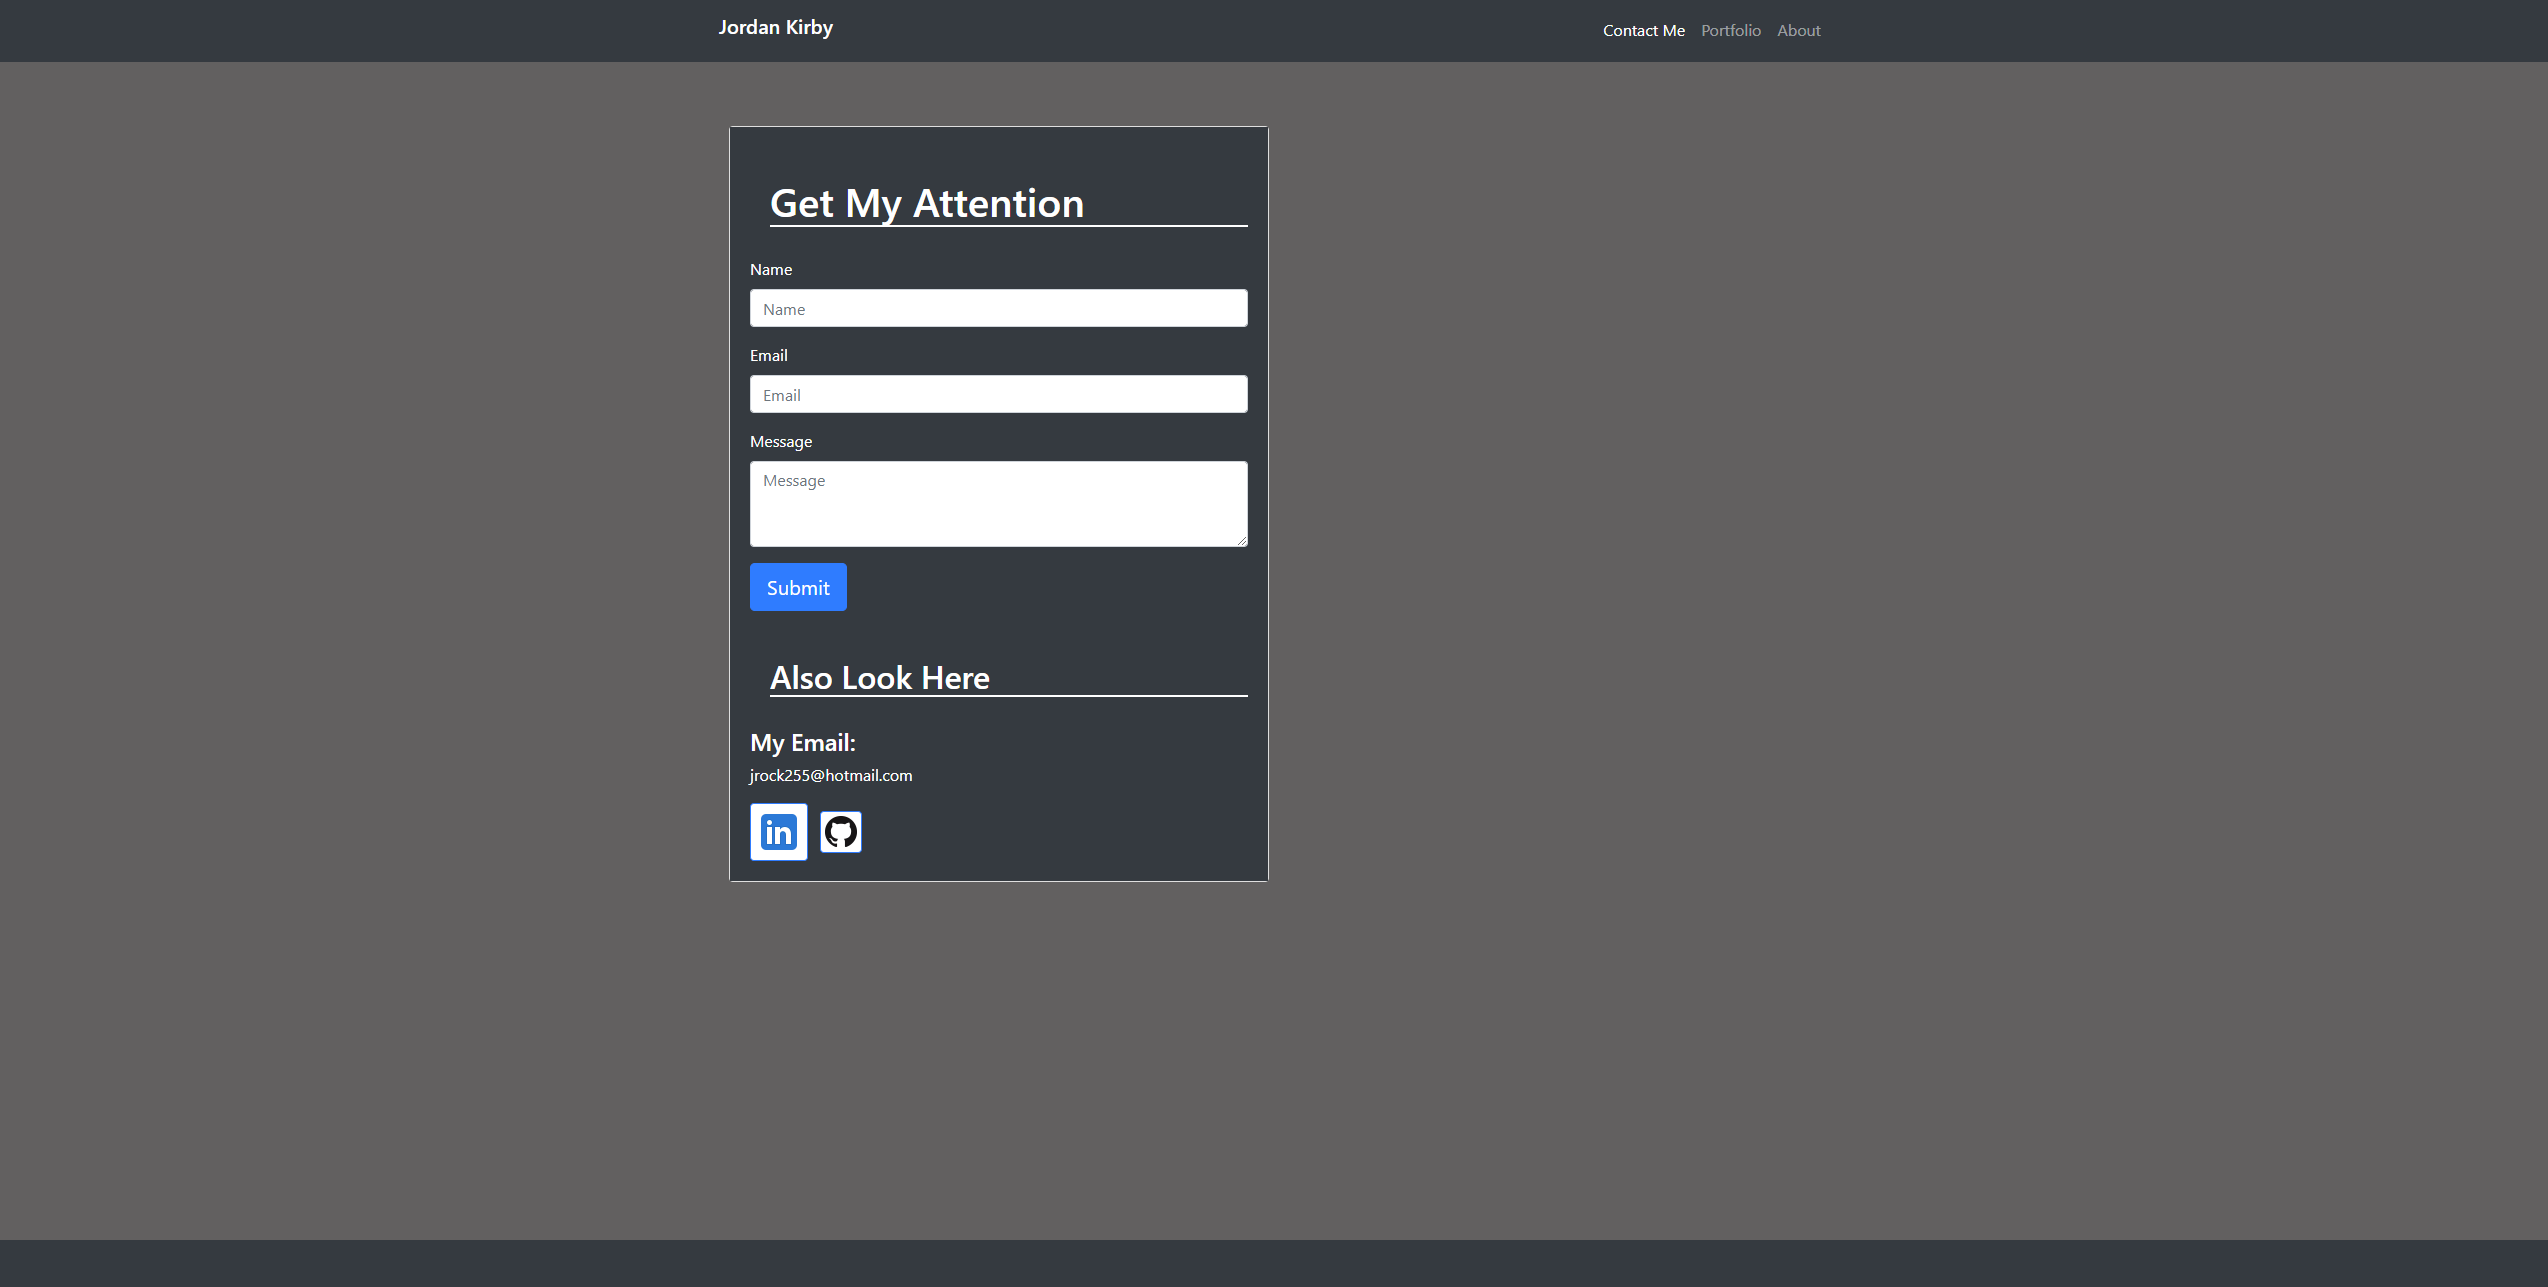
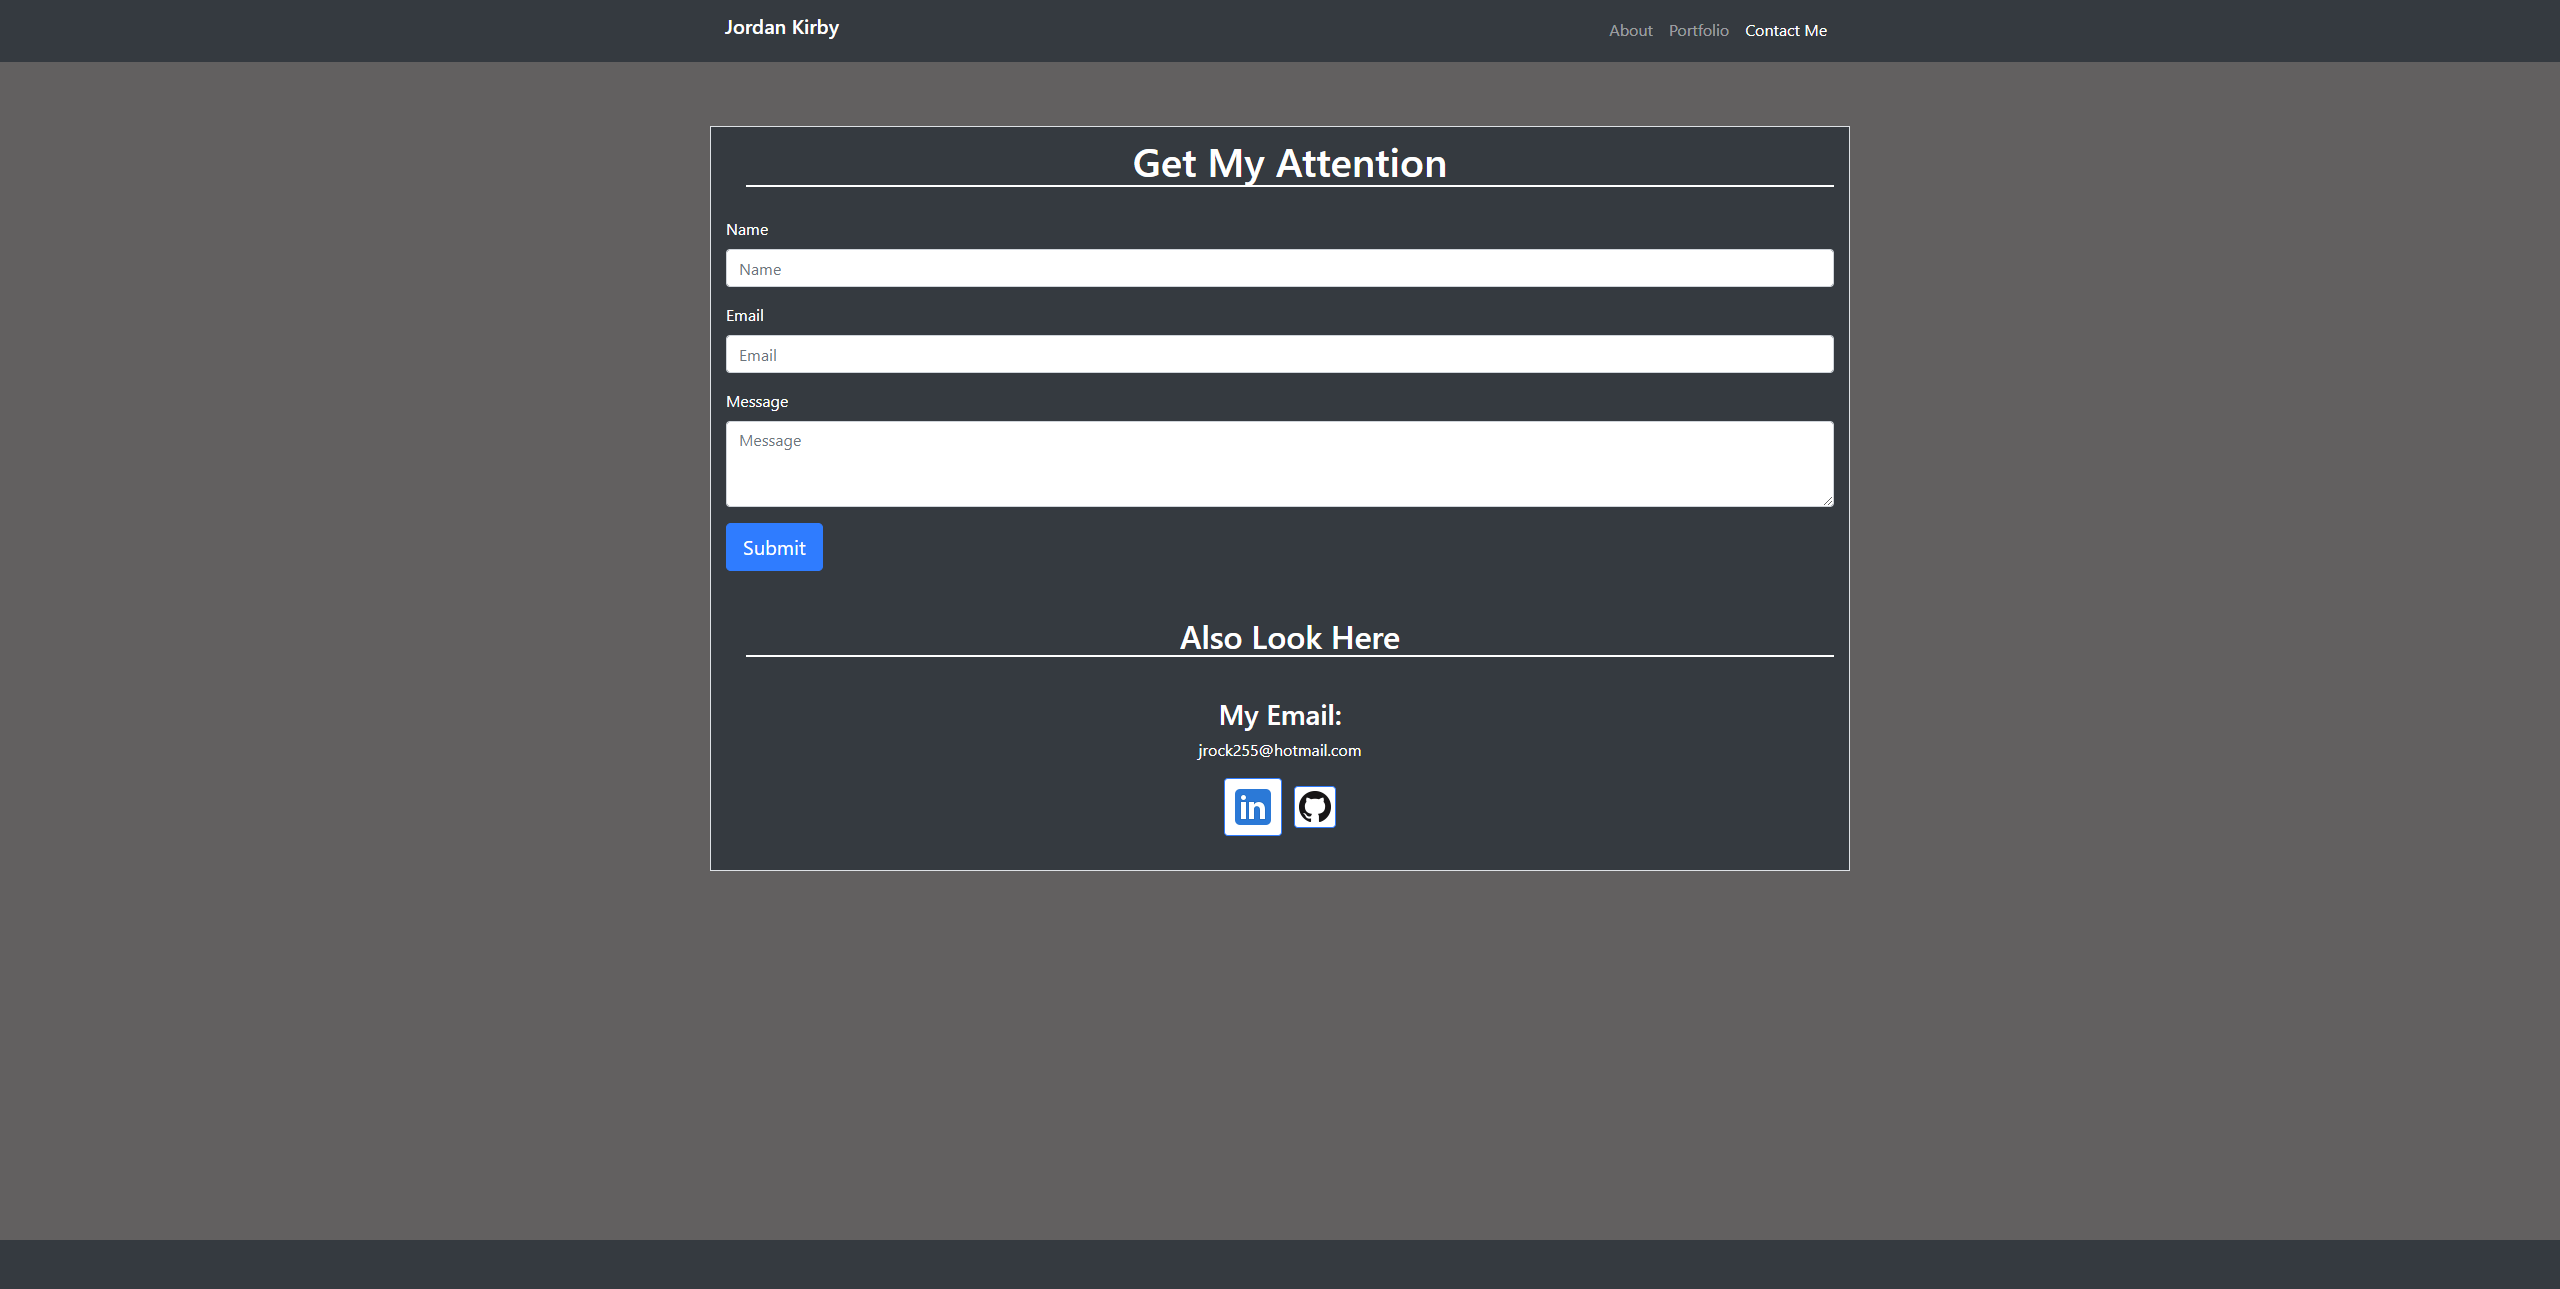
added skills to about me page changed some text alignment and centering

Changed region(s): [[0.279, 0.0932, 0.7441, 0.6838], [0.6201, 0.0, 0.7131, 0.0311], [0.279, 0.0, 0.3411, 0.0311]]

diff --git a/portfolio.html b/portfolio.html
@@ -106,6 +106,30 @@
                     </div>
                 </div>
 
+                <!-- Buger eat -->
+                <div class="card text-white bg-secondary  border-white mb-3">
+                    <img src="./Assets/Images/buger.png" class="card-img-top" alt="Code Quiz">
+                    <div class="card-body">
+                        <h3 class="card-title"><svg width="1em" height="1em" viewBox="0 0 16 16" class="bi bi-star-fill"
+                                fill="currentColor" xmlns="http://www.w3.org/2000/svg">
+                                <path
+                                    d="M3.612 15.443c-.386.198-.824-.149-.746-.592l.83-4.73L.173 6.765c-.329-.314-.158-.888.283-.95l4.898-.696L7.538.792c.197-.39.73-.39.927 0l2.184 4.327 4.898.696c.441.062.612.636.283.95l-3.523 3.356.83 4.73c.078.443-.36.79-.746.592L8 13.187l-4.389 2.256z" />
+                            </svg><a href="https://salty-lake-39666.herokuapp.com/burgers" class="link text-primary ml-3"
+                                target="blank"><u>Eat Burger</u></a></h3>
+                        <p class="card-text">Eat-Da-Burger! is a restaurant app that lets users input the names of burgers they'd like to eat.
+                        
+                        Whenever a user submits a burger's name, your app will display the burger on the left side of the page -- waiting to be
+                        devoured.
+                        
+                        Each burger in the waiting area also has a Devour it! button. When the user clicks it, the burger will move to the right
+                        side of the page.</p>
+                        <a href="https://github.com/Feizhi255/burger-eat" target="blank"
+                            class="btn btn-lg btn-primary">GitHub</a>
+                    </div>
+                </div>
+            </div>
+
+            <div class="row">
                 <!-- password generator -->
                 <div class="card text-white bg-secondary  border-white mb-3">
                     <img src=" ./Assets/Images/PasswordGenerator.png" class="card-img-top" alt="password generator">
@@ -117,23 +141,6 @@
                             password. The choices are special characters, number value, a lowercase letter and a
                             uppercase letter. The length of the password must be between 8 - 128 characters long.</p>
                         <a href="https://github.com/Feizhi255/password-generator" target="blank"
-                            class="btn btn-lg btn-primary">GitHub</a>
-                    </div>
-                </div>
-            </div>
-
-            <div class="row">
-                <!-- code quiz -->
-                <div class="card text-white bg-secondary  border-white mb-3">
-                    <img src="./Assets/Images/CodeQuiz.png" class="card-img-top" alt="Code Quiz">
-                    <div class="card-body">
-                        <h3 class="card-title"><a href="https://feizhi255.github.io/quiz-code/"
-                                class="link text-primary" target="blank"><u>Code Quiz</u></a></h3>
-                        <p class="card-text">Take a little quiz on HTML see how u can do. Max score out of a 4. Here are
-                            the question in the application: Hyper Text Markup Language Stand For? Which language is
-                            used for styling web pages? Which is not a JavaScript Framework? Which is used for Connect
-                            To Database?</p>
-                        <a href="https://github.com/Feizhi255/quiz-code" target="blank"
                             class="btn btn-lg btn-primary">GitHub</a>
                     </div>
                 </div>

diff --git a/index.html b/index.html
@@ -46,10 +46,10 @@
                         <img class="img-thumbnail" src="./Assets/Images/Me2.jpg" alt="Jordan Kirby"
                             style="float: left; margin-right: 10px; margin-bottom: 10px;">
                         <h2 class="mb-0">Bio</h2>
-                        <p>My name is Jordan Kirby. I live in South Weber, Utah with my parents for the time being.
+                        <p>My name is Jordan Kirby. I live in South Weber, Utah.
                             I currently work for Farmington City in Utah maintaining their properties. I hope to one
                             day
-                            find a better career to live with for the rest of my life.
+                            find a Full Stack Web Development career to live with for the rest of my life.
                         <h2>Hobbies</h2>
                         <p>Favorite things include: playing
                             video games and hanging out with friends. Interests: astronomy, minor passion in video
@@ -57,24 +57,30 @@
                             learning new things, and sometimes book reading. Favorite book genre SciFi but mostly
                             fantasy.</p>
                         </p>
-                        <h2 class="text-center">Also Look Here</h2>
-                        <div class="center">
-                            <h3>My Email:</h3>
-                            <p>jrock255@hotmail.com</p>
-                            <a href="https://www.linkedin.com/in/jordan-kirby-b232341aa/" target="blank">
-                                <img class="img-thumbnail border border-primary mr-2"
-                                    src="./Assets/Images/icons8-linkedin-48.png" alt="LinkedIn"></a>
-                            <a href="https://github.com/Feizhi255" target="blank">
-                                <img class="img-thumbnail border-primary"
-                                    src="./Assets/Images/GitHub-Mark/PNG/GitHub-Mark-32px.png" alt="GitHub-Logo"></a>
+                        <h2>Skills</h2>
+                        <div class="col">
+                            <h3>Front End</h3>
+                            <ul class="list-group list-group-flush">
+                                <li class="fontli">HTML5</li>
+                                <li class="fontli">CSS3, Bootstrap, Skeleton, and Bulma</li>
+                                <li class="fontli">JavaScript, jQuery, and Node</li>
+                            </ul>
+                        </div>
+                        <div class="col">
+                            <h3>Backend</h3>
+                            <ul class="list-group list-group-flush">
+                                <li class="fontli">Express.js</li>
+                                <li class="fontli">MySQL, Mongooge, Sequelize, and indexdb</li>
+                                <li class="fontli">Handlebars</li>
+                            </ul>
                         </div>
                     </div>
                 </div>
-
                 <div class="card">
                     <div class="card-body bg-dark">
                         <h1 class="card-title">Resume</h1>
-                        <a href="https://drive.google.com/file/d/1ppVuPm9e0KVXhXEoc3mtwE_kLKmX77LK/view?usp=sharing"
+                        <a class="border border-primary"
+                            href="https://drive.google.com/file/d/1ppVuPm9e0KVXhXEoc3mtwE_kLKmX77LK/view?usp=sharing"
                             target="blank"><img class="border border-primary card-img"
                                 src="./Assets/Images/resume2 (2).png" alt="Resume"></a>
                     </div>

diff --git a/contact.html b/contact.html
@@ -63,6 +63,17 @@
                         </div>
                         <button type="submit" class="btn btn-lg btn-primary mb-3">Submit</button>
                     </form>
+                    <h2 class="text-center">Also Look Here</h2>
+                    <div class="center">
+                        <h3>My Email:</h3>
+                        <p>jrock255@hotmail.com</p>
+                        <a href="https://www.linkedin.com/in/jordan-kirby-b232341aa/" target="blank">
+                            <img class="img-thumbnail border border-primary mr-2" src="./Assets/Images/icons8-linkedin-48.png"
+                                alt="LinkedIn"></a>
+                        <a href="https://github.com/Feizhi255" target="blank">
+                            <img class="img-thumbnail border-primary" src="./Assets/Images/GitHub-Mark/PNG/GitHub-Mark-32px.png"
+                                alt="GitHub-Logo"></a>
+                    </div>
                 </div>
             </div>
         </div>

diff --git a/Assets/styles/styles.css b/Assets/styles/styles.css
@@ -25,8 +25,9 @@ h1 {
     color: white;
     border-bottom: white solid 2px;
     margin-bottom: 30px;
-    margin-top: 30px;
-    margin-left: 20px
+    margin-top: 10px;
+    margin-left: 20px;
+    text-align: center;
 }
 
 h2 {
@@ -34,15 +35,31 @@ h2 {
     border-bottom: white solid 2px;
     margin-bottom: 30px;
     margin-top: 30px;
-    margin-left: 20px
+    margin-left: 20px;
+    text-align: center;
+}
+
+h3 {
+    text-align: center;
 }
 
 .center {
   margin: auto;
   width: 50%;
   padding: 10px;
+  text-align: center;
 }
 
 .bottomFooter {
   height: 55px;
+}
+
+.table {
+    color: white;
+}
+
+.fontli {
+    border-bottom: white solid 2px;
+    font-size: larger;
+    margin-bottom: 10px;
 }
